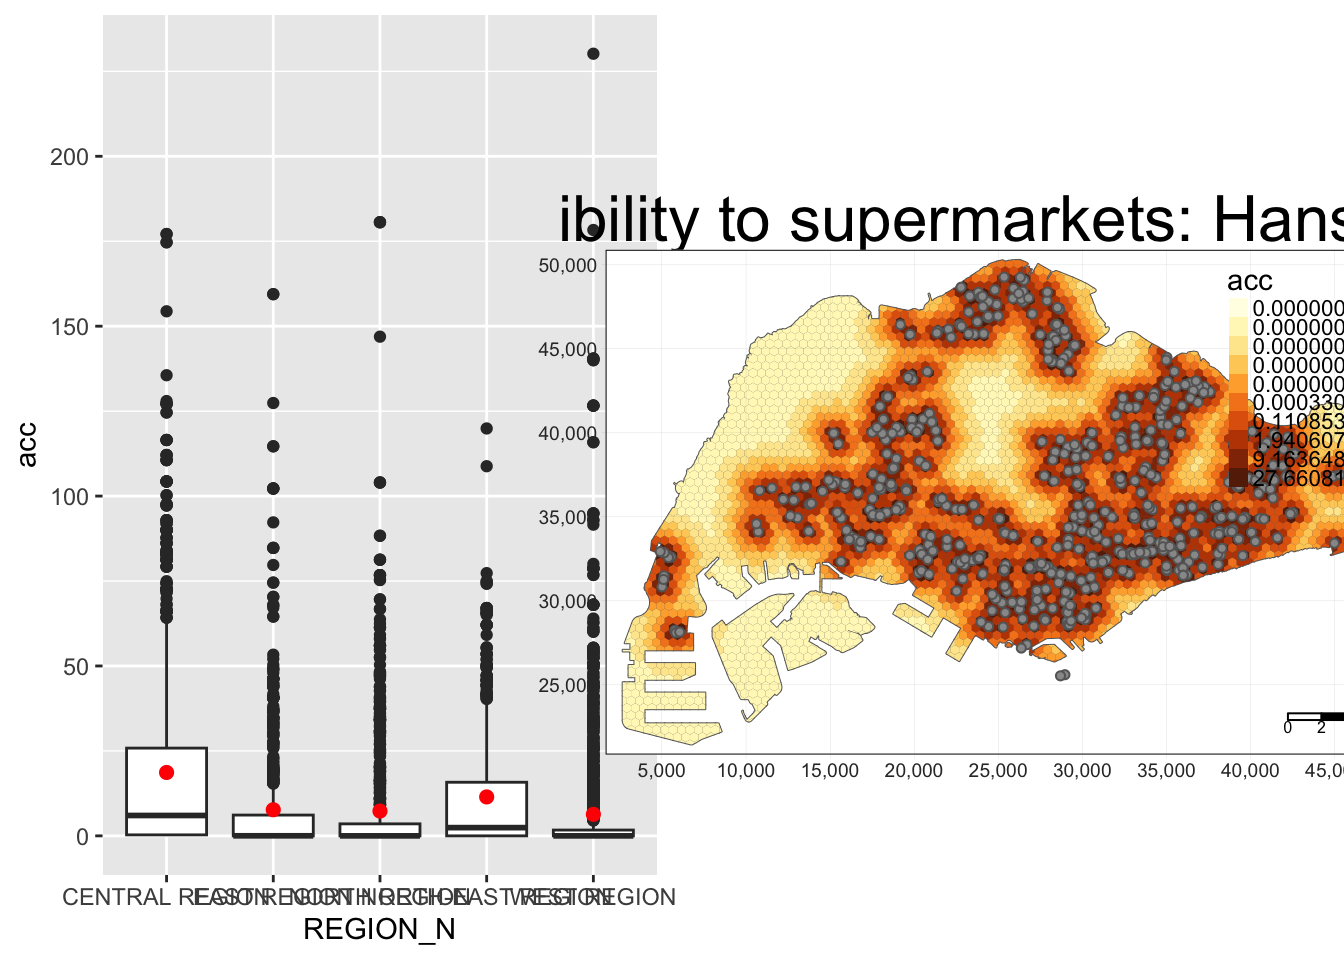
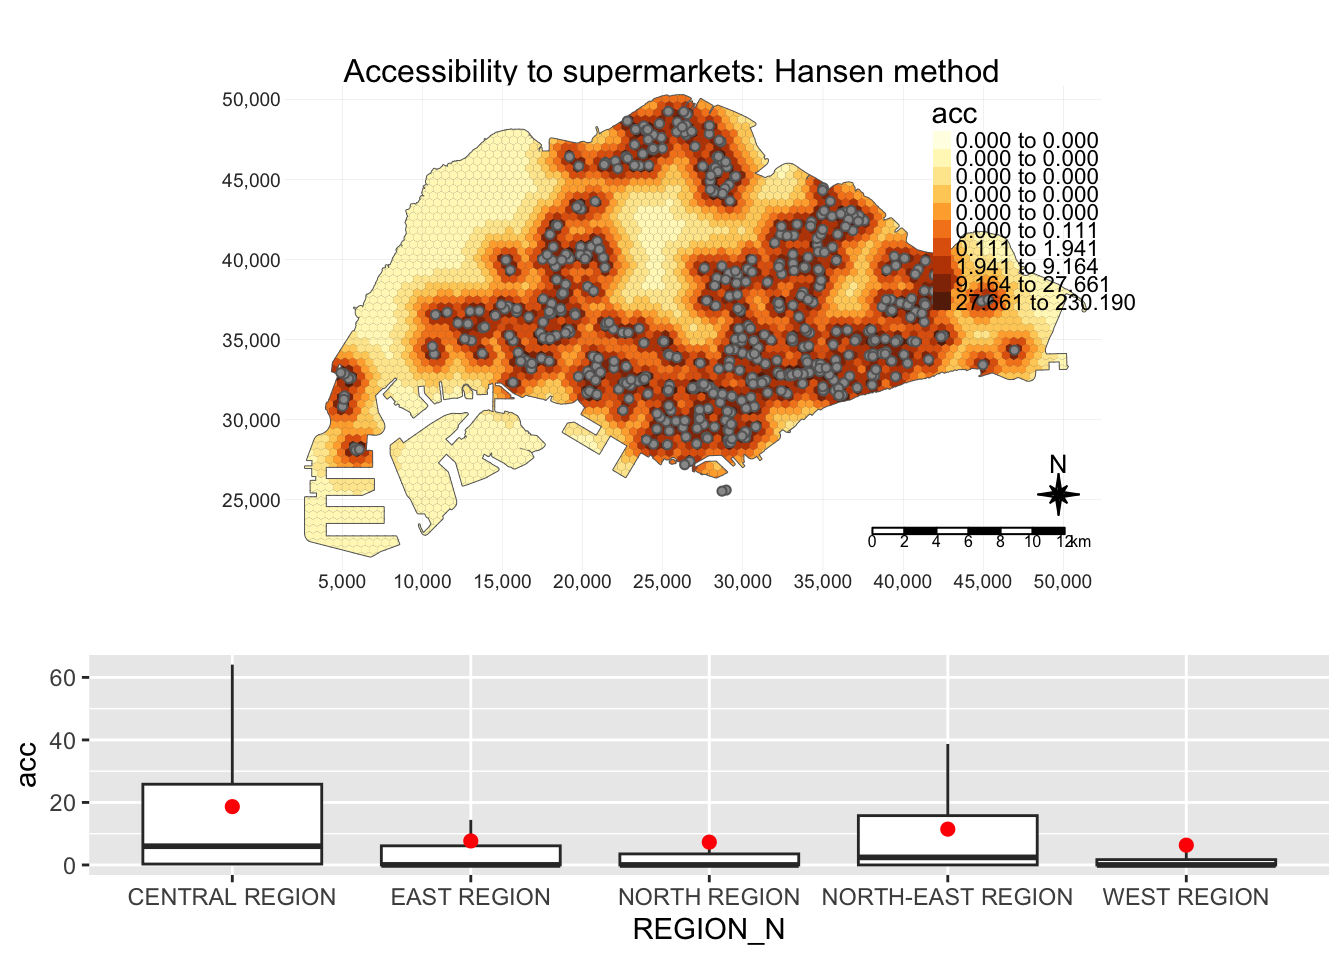
Writeups later

diff --git a/_site/TakeHomeEx/TakeHomeEx3/THE3.html b/_site/TakeHomeEx/TakeHomeEx3/THE3.html
@@ -297,6 +297,14 @@ pre > code.sourceCode > span > a:first-child::before { text-decoration: underlin
 
 <section id="overview-and-objectives" class="level2">
 <h2 class="anchored" data-anchor-id="overview-and-objectives">Overview and Objectives</h2>
+<p>In this takehome exercise, I will be prototyping my accessibility modelling module for the Geospatial Analytics Project.</p>
+<p>This module aims to - Model the accessibility to various amenties across Singapore - Show the distributions of accessibility to amenities across regions</p>
+<ul>
+<li>Choose between Hexagonal and Square Grids</li>
+<li>Change the desired grid size</li>
+<li>Choose different distance decay functions</li>
+<li>Choose between Hansen’s, KD2SFCA and SAM accessibility modelling methods</li>
+</ul>
 </section>
 <section id="data-wrangling" class="level2">
 <h2 class="anchored" data-anchor-id="data-wrangling">Data Wrangling</h2>
@@ -1005,15 +1013,15 @@ Geodetic CRS:  WGS 84</code></pre>
 <span id="cb44-38"><a href="#cb44-38" aria-hidden="true" tabindex="-1"></a>    <span class="fu">tm_symbols</span>(<span class="at">size =</span> <span class="fl">0.1</span>) <span class="sc">+</span></span>
 <span id="cb44-39"><a href="#cb44-39" aria-hidden="true" tabindex="-1"></a>    <span class="fu">tm_layout</span>(<span class="at">main.title =</span> <span class="fu">paste</span>(<span class="st">"Accessibility to "</span>, point_type, <span class="st">": "</span>, method,<span class="st">" method"</span>, <span class="at">sep=</span><span class="st">""</span>),</span>
 <span id="cb44-40"><a href="#cb44-40" aria-hidden="true" tabindex="-1"></a>              <span class="at">main.title.position =</span> <span class="st">"center"</span>,</span>
-<span id="cb44-41"><a href="#cb44-41" aria-hidden="true" tabindex="-1"></a>              <span class="at">main.title.size =</span> <span class="dv">2</span>,</span>
+<span id="cb44-41"><a href="#cb44-41" aria-hidden="true" tabindex="-1"></a>              <span class="at">main.title.size =</span> <span class="dv">1</span>,</span>
 <span id="cb44-42"><a href="#cb44-42" aria-hidden="true" tabindex="-1"></a>              <span class="at">legend.outside =</span> <span class="cn">FALSE</span>,</span>
-<span id="cb44-43"><a href="#cb44-43" aria-hidden="true" tabindex="-1"></a>              <span class="at">legend.height =</span> <span class="fl">0.45</span>, </span>
-<span id="cb44-44"><a href="#cb44-44" aria-hidden="true" tabindex="-1"></a>              <span class="at">legend.width =</span> <span class="fl">3.0</span>,</span>
-<span id="cb44-45"><a href="#cb44-45" aria-hidden="true" tabindex="-1"></a>              <span class="at">legend.format =</span> <span class="fu">list</span>(<span class="at">digits =</span> <span class="dv">6</span>),</span>
+<span id="cb44-43"><a href="#cb44-43" aria-hidden="true" tabindex="-1"></a>              <span class="at">legend.height =</span> <span class="fl">0.5</span>, </span>
+<span id="cb44-44"><a href="#cb44-44" aria-hidden="true" tabindex="-1"></a>              <span class="at">legend.width =</span> <span class="fl">0.5</span>,</span>
+<span id="cb44-45"><a href="#cb44-45" aria-hidden="true" tabindex="-1"></a>              <span class="at">legend.format =</span> <span class="fu">list</span>(<span class="at">digits =</span> <span class="dv">3</span>),</span>
 <span id="cb44-46"><a href="#cb44-46" aria-hidden="true" tabindex="-1"></a>              <span class="at">legend.position =</span> <span class="fu">c</span>(<span class="st">"right"</span>, <span class="st">"top"</span>),</span>
-<span id="cb44-47"><a href="#cb44-47" aria-hidden="true" tabindex="-1"></a>              <span class="at">frame =</span> <span class="cn">TRUE</span>) <span class="sc">+</span></span>
+<span id="cb44-47"><a href="#cb44-47" aria-hidden="true" tabindex="-1"></a>              <span class="at">frame =</span> <span class="cn">FALSE</span>) <span class="sc">+</span></span>
 <span id="cb44-48"><a href="#cb44-48" aria-hidden="true" tabindex="-1"></a>    <span class="fu">tm_compass</span>(<span class="at">type=</span><span class="st">"8star"</span>, <span class="at">size =</span> <span class="dv">2</span>) <span class="sc">+</span></span>
-<span id="cb44-49"><a href="#cb44-49" aria-hidden="true" tabindex="-1"></a>    <span class="fu">tm_scale_bar</span>(<span class="at">width =</span> <span class="fl">0.15</span>) <span class="sc">+</span></span>
+<span id="cb44-49"><a href="#cb44-49" aria-hidden="true" tabindex="-1"></a>    <span class="fu">tm_scale_bar</span>(<span class="at">width =</span> <span class="fl">0.20</span>) <span class="sc">+</span></span>
 <span id="cb44-50"><a href="#cb44-50" aria-hidden="true" tabindex="-1"></a>    <span class="fu">tm_grid</span>(<span class="at">lwd =</span> <span class="fl">0.1</span>, <span class="at">alpha =</span> <span class="fl">0.5</span>)</span>
 <span id="cb44-51"><a href="#cb44-51" aria-hidden="true" tabindex="-1"></a>  </span>
 <span id="cb44-52"><a href="#cb44-52" aria-hidden="true" tabindex="-1"></a>  hexagon_acc <span class="ot">&lt;-</span> <span class="fu">st_join</span>(hexagon, <span class="fu">read_rds</span>(<span class="st">'data/rds/mpsz.rds'</span>) , <span class="at">join =</span> st_intersects)</span>
@@ -1021,13 +1029,13 @@ Geodetic CRS:  WGS 84</code></pre>
 <span id="cb44-54"><a href="#cb44-54" aria-hidden="true" tabindex="-1"></a>  region_bxp <span class="ot">&lt;-</span> <span class="fu">ggplot</span>(<span class="at">data=</span>hexagon_acc, </span>
 <span id="cb44-55"><a href="#cb44-55" aria-hidden="true" tabindex="-1"></a>       <span class="fu">aes</span>(<span class="at">y =</span> acc, </span>
 <span id="cb44-56"><a href="#cb44-56" aria-hidden="true" tabindex="-1"></a>           <span class="at">x =</span> REGION_N)) <span class="sc">+</span></span>
-<span id="cb44-57"><a href="#cb44-57" aria-hidden="true" tabindex="-1"></a>  <span class="fu">geom_boxplot</span>() <span class="sc">+</span></span>
+<span id="cb44-57"><a href="#cb44-57" aria-hidden="true" tabindex="-1"></a>  <span class="fu">geom_boxplot</span>(<span class="at">outliers =</span> <span class="cn">FALSE</span>) <span class="sc">+</span></span>
 <span id="cb44-58"><a href="#cb44-58" aria-hidden="true" tabindex="-1"></a>  <span class="fu">geom_point</span>(<span class="at">stat=</span><span class="st">"summary"</span>, </span>
 <span id="cb44-59"><a href="#cb44-59" aria-hidden="true" tabindex="-1"></a>             <span class="at">fun.y=</span><span class="st">"mean"</span>, </span>
 <span id="cb44-60"><a href="#cb44-60" aria-hidden="true" tabindex="-1"></a>             <span class="at">colour =</span><span class="st">"red"</span>, </span>
 <span id="cb44-61"><a href="#cb44-61" aria-hidden="true" tabindex="-1"></a>             <span class="at">size=</span><span class="dv">2</span>)</span>
 <span id="cb44-62"><a href="#cb44-62" aria-hidden="true" tabindex="-1"></a>  </span>
-<span id="cb44-63"><a href="#cb44-63" aria-hidden="true" tabindex="-1"></a>  <span class="fu">plot_grid</span>(region_bxp, <span class="fu">tmap_grob</span>(tm), <span class="at">ncol =</span> <span class="dv">2</span>)</span>
+<span id="cb44-63"><a href="#cb44-63" aria-hidden="true" tabindex="-1"></a>  <span class="fu">plot_grid</span>(<span class="fu">tmap_grob</span>(tm), region_bxp, <span class="at">nrow =</span> <span class="dv">2</span>, <span class="at">rel_heights =</span> <span class="fu">c</span>(<span class="dv">2</span>, <span class="dv">1</span>))</span>
 <span id="cb44-64"><a href="#cb44-64" aria-hidden="true" tabindex="-1"></a>}</span></code><button title="Copy to Clipboard" class="code-copy-button"><i class="bi"></i></button></pre></div>
 </details>
 </div>
